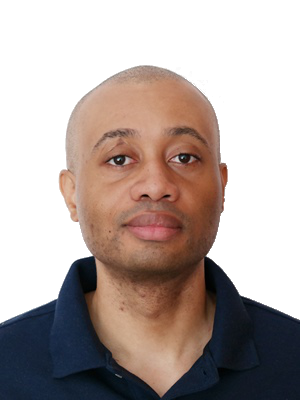
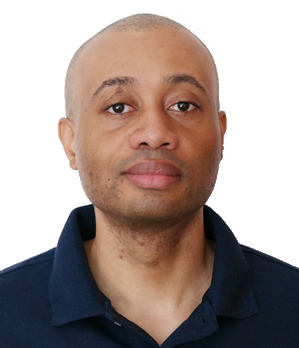
Commit

diff --git a/index.html b/index.html
@@ -237,7 +237,7 @@
             <div class="project-header">
               <h2>Tennis Game</h2>
               <nav>
-                <a href="tennis-game.raaudain.now.sh" target="_blank" rel="noopener noreferrer">Demo</a>
+                <a href="https://tennis-game.raaudain.now.sh" target="_blank" rel="noopener noreferrer">Demo</a>
                 <a href="https://github.com/raaudain/tennis-game" target="_blank" rel="noopener noreferrer">GitHub</a>
                 <i class="fas fa-plus"></i>
               </nav>
@@ -269,8 +269,7 @@
           <div>
             <p>So how did I get into software development?</p>
   
-            <p>Well, after being told by my manager to fill out my timesheet one too many times, I decided to try and write a Python script that would do the work for me. So one Saturday, after 8 hours of researching and coding, I eventually came up with something that worked. 
-            After my success, I began thinking that maybe I could do this for a living. So I went back to school and the rest is history.</p>
+            <p>Well, after being told by my manager to fill out my timesheet one too many times, I decided to try and write a Python script that would do the work for me. So one Saturday, after 8 hours of researching and coding, I eventually came up with something that worked. After my success, I began thinking that maybe I could do this for a living. So I went back to school and the rest is history.</p>
   
             <p>Currently, I live in the Bay Area, CA. Rent's expensive, but I love the weather.</p>
   

diff --git a/css/styles.css b/css/styles.css
@@ -155,7 +155,7 @@ html {
   #container {
     display: flex;
     flex-direction: column;
-    margin: 5% auto;
+    margin: 2% auto 7%;
     width: 95%;
   }
 }
@@ -167,9 +167,9 @@ html {
   padding: 15px 20px 15px 0;
 }
 #left-container img {
+  margin: 43px 0 15px;
   width: 100%;
   object-fit: cover;
-  margin-bottom: 15px;
 }
 #left-container h1 {
   font-size: 3rem;
@@ -221,6 +221,9 @@ html {
   }
   #left-container #contact #git {
     margin: 0;
+  }
+  #left-container #contact i {
+    margin: auto;
   }
 }
 #right-container {
@@ -335,6 +338,9 @@ html {
   margin-left: 15px;
   letter-spacing: 1px;
   color: #0645ad;
+}
+#projects .project .project-header nav a:hover {
+  text-decoration: underline;
 }
 #projects .project .project-header .fa-plus, #projects .project .project-header .fa-minus {
   font-size: 1.6rem;

diff --git a/main.js b/main.js
@@ -18,20 +18,3 @@ document.querySelectorAll(".project").forEach(button => {
     }
   });
 });
-
-
-
-
-
-// const project = document.querySelectorAll(".project")
-
-// project.forEach(item => {
-//     item.addEventListener("mouseenter", () => {
-//         item.style.transform = "scale(1.02)";
-//         item.style.transition = "1s";
-//     })
-
-//     item.addEventListener("mouseleave", () => {
-//         item.style.transform = "scale(1)";
-//     })
-// })

diff --git a/scss/left-container.scss b/scss/left-container.scss
@@ -5,10 +5,11 @@
   width: 250px;
   padding: 15px 20px 15px 0;
 
+
   img {
+    margin: 43px 0 15px;
     width: 100%;
     object-fit: cover;
-    margin-bottom: 15px;
   }
   
   h1 {
@@ -55,7 +56,6 @@
     }
 
     #headers {
-     
       h1 {
         font-size: 3.27rem;
       }
@@ -70,8 +70,13 @@
       span {
         display: none;
       }
+
       #git {
         margin: 0;
+      }
+
+      i {
+        margin: auto;
       }
     }
   }

diff --git a/scss/projects.scss b/scss/projects.scss
@@ -15,9 +15,8 @@
       display: flex;
       justify-content: space-between;
       margin-bottom: 7px;
+
       h2 {
-        // background-color: #f5f5f5;
-        //padding: 7px 12px;
         font-size: 2rem;
       }
 
@@ -25,6 +24,10 @@
         margin-left: 15px;
         letter-spacing: 1px;
         color: #0645ad;
+      }
+
+      nav a:hover {
+        text-decoration: underline;
       }
 
       .fa-plus, .fa-minus {

diff --git a/scss/container.scss b/scss/container.scss
@@ -14,7 +14,7 @@
   #container {
     display:flex;
     flex-direction: column;
-    margin: 5% auto;
+    margin: 2% auto 7%;
     width: 95%;
   }
 }
